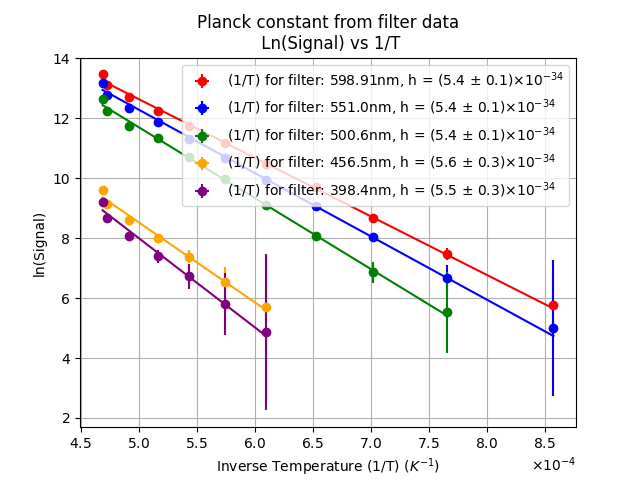
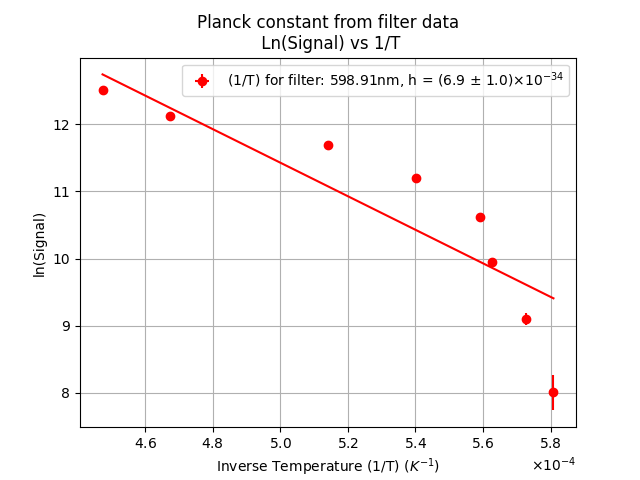
new temp relation

diff --git a/current_vs_temp.py b/current_vs_temp.py
@@ -51,8 +51,8 @@ for current, color in zip(current_numbers, colors):
     x = data[:, 0] * 1e-9
     y = data[:, 1] / np.trapz(data[:,1], x)
 
-    data_slicing_posiion = len(x) // 5 * 3
-    # data_slicing_posiion = (np.where(y>0.3e7)[0][0] + np.where(y>0.3e7)[0][-1]) // 2
+    # data_slicing_posiion = len(x) // 5 * 3
+    data_slicing_posiion = (np.where(y>0.1e7)[0][-1] - np.where(y>0.1e7)[0][0]) // 6 + np.where(y>0.1e7)[0][0]
     optimal_params, cov_matrix = opt.curve_fit(blackbody_radiation, x[:data_slicing_posiion], y[:data_slicing_posiion], p0=[1000, 0.5])
     print(optimal_params[0])
     temp = np.append(temp, optimal_params[0])
@@ -61,12 +61,12 @@ for current, color in zip(current_numbers, colors):
     plt.plot(x, y, label=str(current)+'A', color=color, alpha = 0.5)
     plt.plot(x, fit_y, color=color)
 
-# plt.xlabel('Wavelength')
-# plt.ylabel('Intensity')
-# plt.ylim(0, 1e7)
-# plt.legend()
-# # plt.savefig('current_vs_temp.png')
-# plt.show()
+plt.xlabel('Wavelength')
+plt.ylabel('Intensity')
+plt.ylim(0, 0.6e7)
+plt.legend()
+# plt.savefig('current_vs_temp.png')
+plt.show()
 plt.close()
 
 plt.plot(current_numbers, temp, 'x')
@@ -74,5 +74,7 @@ plt.xlabel('Current (A)')
 plt.ylabel('Temperature (K)')
 plt.show()
 
-print(list(temp))
-'''[1704.761995108607, 1816.6648674944515, 1915.7752515040233, 1997.35917421358, 2066.1052219558246, 2143.344283321691, 2204.6546532873253, 2262.103447937235, 2318.276476094833, 2413.0920857482847]'''
+with open('coil_cs.txt', 'w') as file:
+    file.write(str(current_numbers) + '\n')
+    file.write(str(list(temp)))
+    

diff --git a/calculating_temp_from_resistance.py b/calculating_temp_from_resistance.py
@@ -6,6 +6,7 @@ import numpy as np
 import matplotlib.pyplot as plt
 import scipy.optimize as opt
 from scipy.interpolate import CubicSpline
+import ast
 # import scienceplots
 # plt.style.use('science')
 
@@ -111,12 +112,21 @@ plt.plot(taken_data[:, 4], cal_temp_B_from_temp_R(measured_temp_R), 'x', color='
 plt.xlabel('Current [A]')
 plt.ylabel('Temperature [°K]')
 plt.title('Temperature - Current relation')
+
 # the values were determined later
-x = np.array([0.4, 0.45, 0.5, 0.55, 0.6, 0.65, 0.7, 0.75, 0.8, 0.85])
-y = np.array([1704.761995108607, 1816.6648674944515, 1915.7752515040233, 1997.35917421358, 2066.1052219558246, 2143.344283321691, 2204.6546532873253, 2262.103447937235, 2318.276476094833, 2413.0920857482847])
+arrays = []
+with open('coil_cs.txt', 'r') as file:
+    for line in file:
+        # Use ast.literal_eval to safely evaluate the line as a Python list
+        data_list = ast.literal_eval(line.strip())
+        # Convert the list to a numpy array and append to our list of arrays
+        arrays.append(np.array(data_list))
+x = arrays[0]
+y = arrays[1]
 plt.plot(x, y, 'x', label='fitting bb spectrum, center', color = 'orange') 
 cs = CubicSpline(x, y)
 plt.plot(x, cs(x), label='cubic spline fit, bb spectrum', color = 'orange')
+
 plt.grid()
 plt.legend()
 # plt.show()

diff --git a/cal_h_from_filter_data_voltage.py b/cal_h_from_filter_data_voltage.py
@@ -45,8 +45,8 @@ def reduce_by_first_nonzero(arr):
     return reduced_arr
 
 
-# importing the data    # 'data\\gain_photodetector.csv'
-data = np.loadtxt('data\\gain_photodetector.csv', delimiter=',', skiprows=1)
+# importing the data    # 'data\\gain_photodetector.csv' or 'data\\filter_measure\\filter_1_mid_coil.csv'
+data = np.loadtxt('data\\filter_measure\\filter_1_mid_coil.csv', delimiter=',', skiprows=1)
 
 # Create a ScalarFormatter object
 formatter = ScalarFormatter(useMathText=True)  # useMathText=True to use math text for scientific notation
@@ -56,8 +56,10 @@ formatter.set_powerlimits((-1,1))  # You can adjust these limits based on your d
 # Apply the formatter to the y-axis
 plt.gca().xaxis.set_major_formatter(formatter)
 
-data_index = [2,3,4,5,6]
-uncert_index = [1,1,1,1,1]
+# data_index = [2,3,4,5,6]
+# uncert_index = [1,1,1,1,1]
+data_index = [1]
+uncert_index = [2]
 colors = ['red', 'blue', 'green', 'orange', 'purple']
 for i in range(len(data_index)):
     lambda1 = lambdas[i]
@@ -90,7 +92,7 @@ for i in range(len(data_index)):
     y = arrays[1]
     cs_bb_spectrum = CubicSpline(x, y)
 
-    cs = cs
+    cs = cs_bb_spectrum
 
 
     # removing the 0 values from the data
